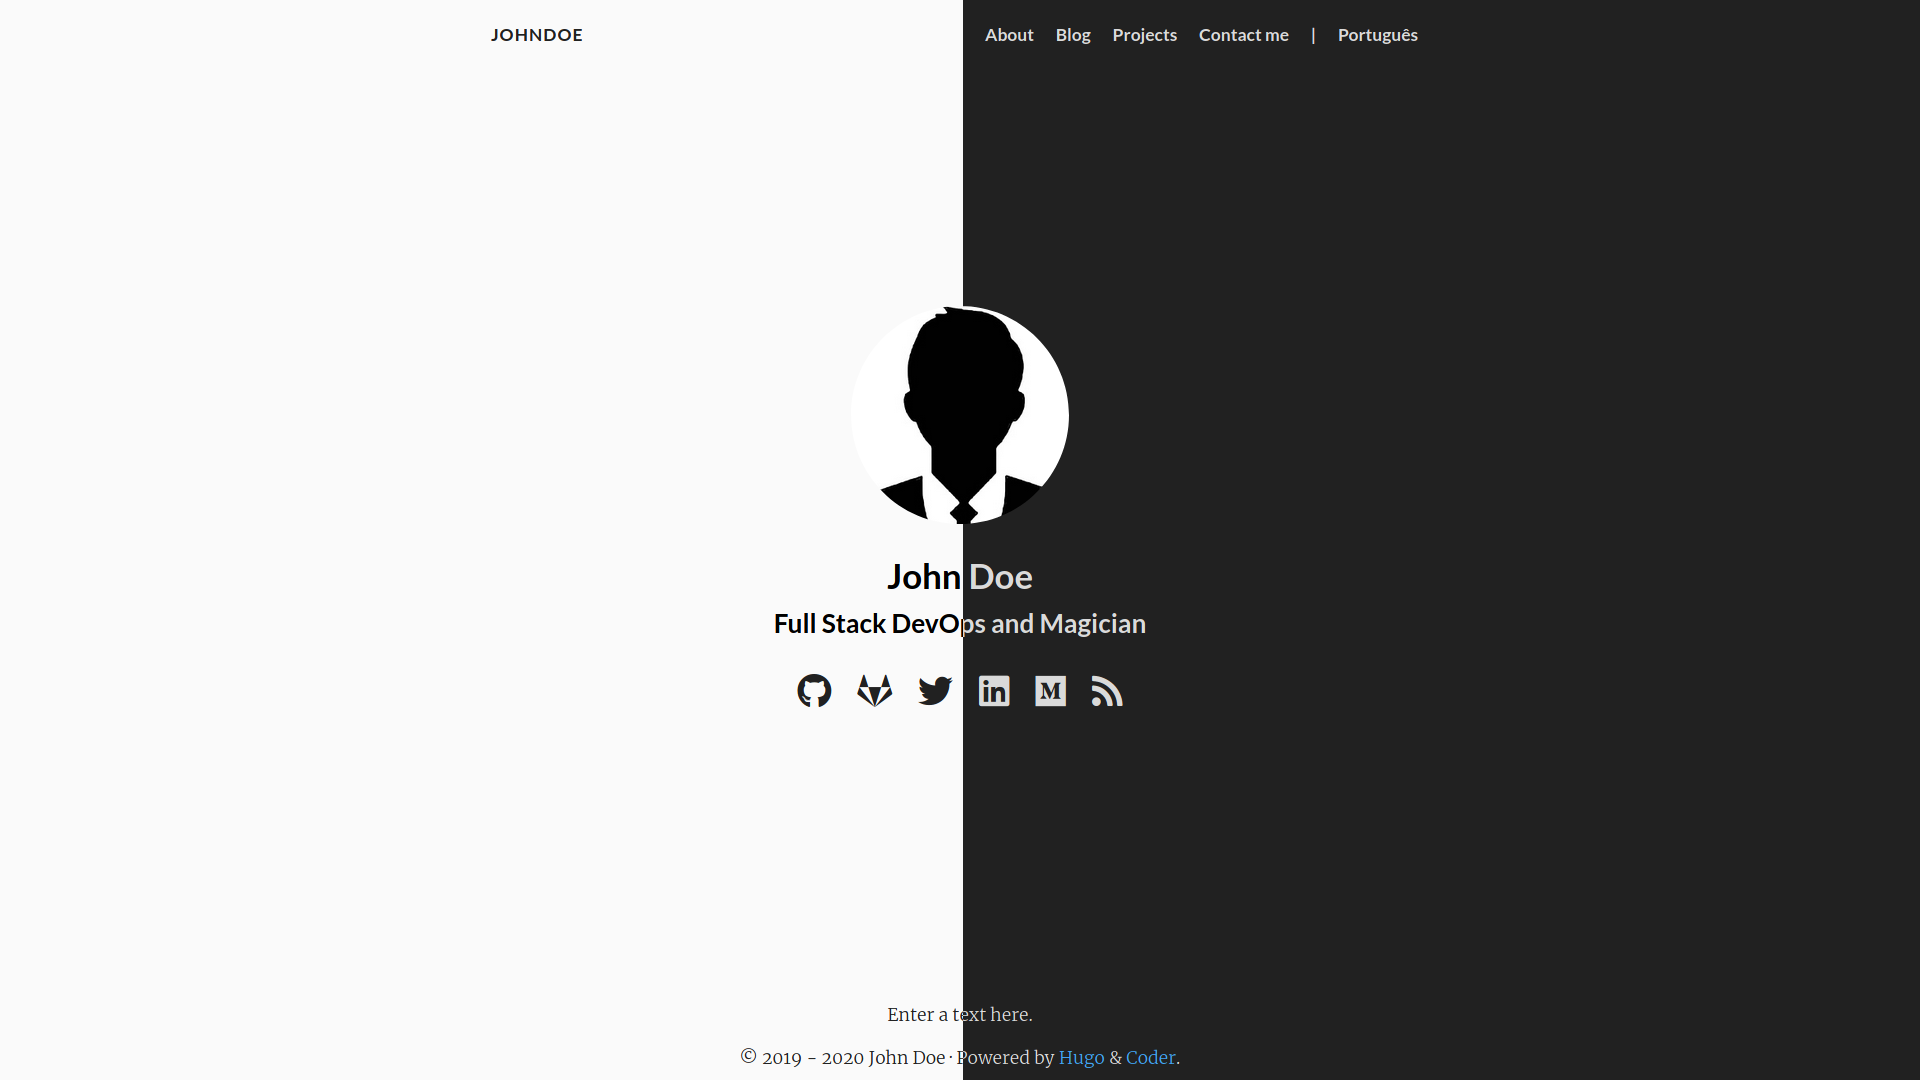
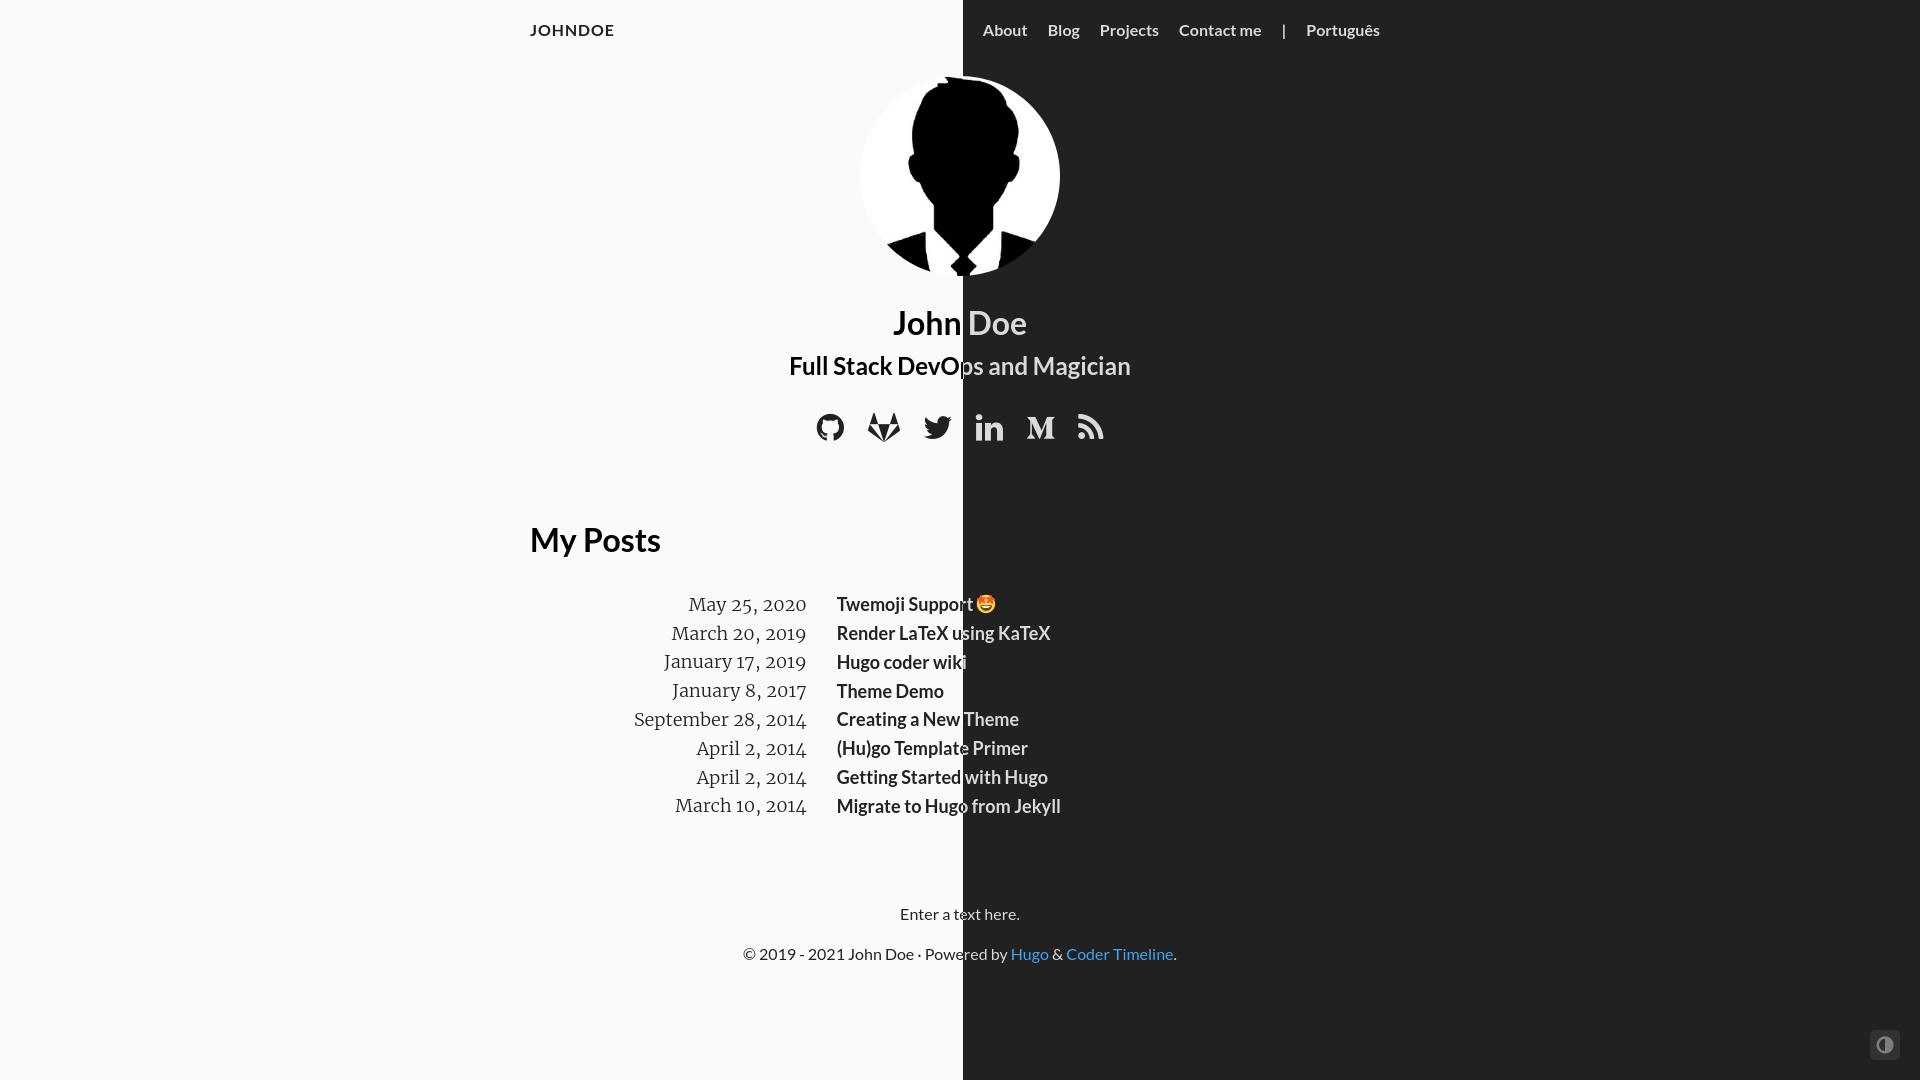
update screenshot of the theme

diff --git a/layouts/partials/footer.html b/layouts/partials/footer.html
@@ -14,7 +14,7 @@
       {{ end }}
       {{ if not .Site.Params.hideCredits }}
         {{ if not .Site.Params.hideCopyright }} · {{ end }}
-        {{ i18n "powered_by" }} <a href="https://gohugo.io/">Hugo</a> & <a href="https://github.com/luizdepra/hugo-coder/">Coder</a>.
+        {{ i18n "powered_by" }} <a href="https://gohugo.io/">Hugo</a> & <a href="https://github.com/13hannes11/hugo-coder-timeline">Coder Timeline</a>.
       {{ end }}
       {{ if .Site.Params.commit }}
         {{ if .GitInfo }}
